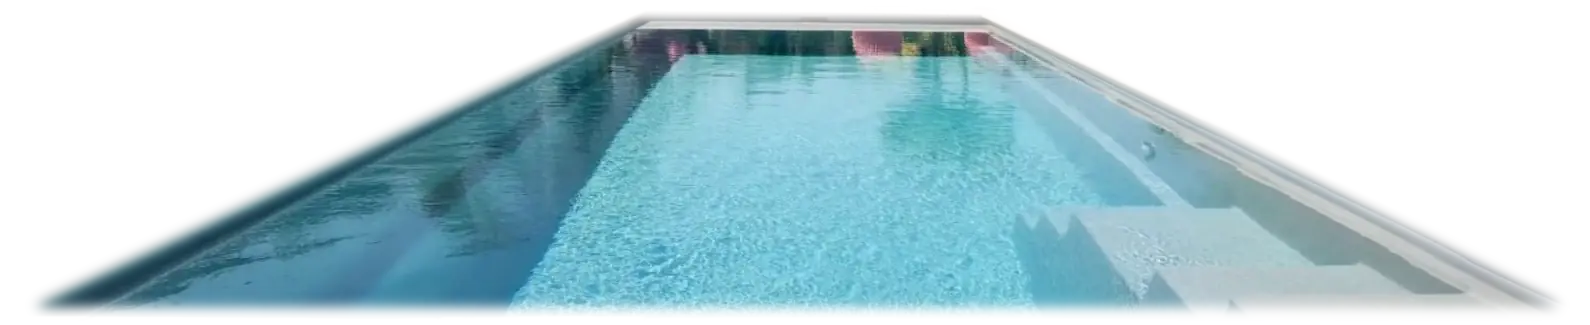
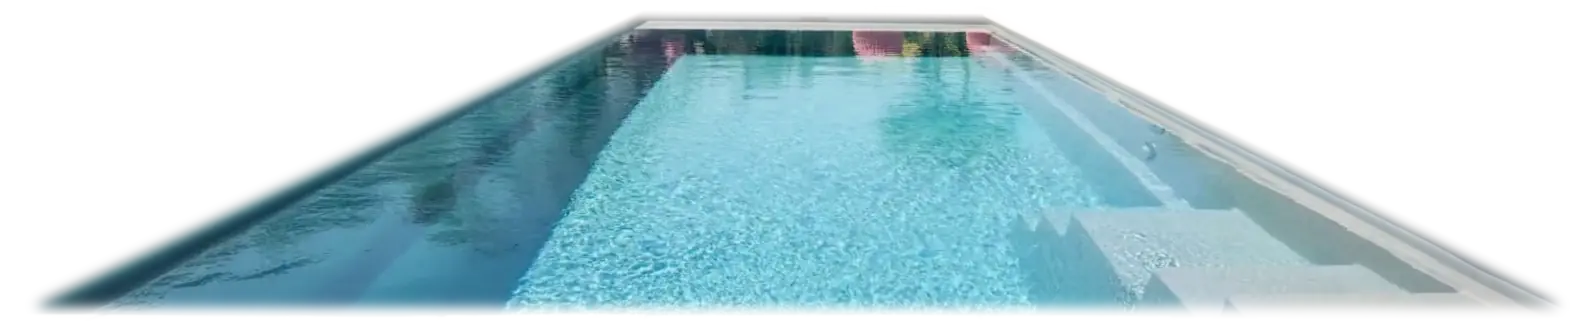
Hero: Wasser-Schleife auf die erste Hälfte gekürzt (ohne Drift nach rechts)
Claude-Session: https://claude.ai/code/session_019KKgNTWwGLvJJYy8rZqis2

diff --git a/HANDOVER.md b/HANDOVER.md
@@ -20,7 +20,7 @@ Kurzfassung für die nächste Sitzung. Arbeitsregeln und festgelegte Entscheidun
 
 1. **Header** (`components/Header.astro`) – 1:1 Space Kit (Glas-Leiste, Lade-Animation, Mobile-Menü gleitet 0,4 s von oben). Button „Beratung anfragen“ = runder Pill-Button dunkelblau.
 2. **Hero** (`components/Hero.astro`) – Space-Kit-Aufbau (Pill mit Preis „Komplettpaket ab 22.700 € zzgl. Erdarbeiten“, Headline „Ihr Traumpool. Fertig in 48 Stunden.“, Wellen-Kreis mit Umlauftext; Hotspots auf Wunsch entfernt).
-   - Hintergrund = **Köpfer-Video als Bildfolge**: 96 Einzelbilder in `website/public/koepfer/d/` (1920×1080) und `m/` (720×1280, Hochformat), per Canvas gezeichnet. Beim ersten Scrollen läuft es von selbst in 3,2 s bis unter Wasser durch (Seite steht so lange), Text/Buttons blenden aus; zurück ganz oben läuft es genauso rückwärts. Am Ende der Fahrt scrollt die Seite automatisch zu Sektion 2 (Lenis `scrollTo`, `window.lenis`). Im Ruhezustand oben bewegt sich nur das Wasser: 32 Pool-Ausschnitte mit weichem Rand in `website/public/koepfer/w/` (aus den ersten 2 s des Videos, auf Bild 0 stabilisiert, nahtlos überblendet, 16 Bilder/s, 0,8 MB), werden über Bild 0 gezeichnet.
+   - Hintergrund = **Köpfer-Video als Bildfolge**: 96 Einzelbilder in `website/public/koepfer/d/` (1920×1080) und `m/` (720×1280, Hochformat), per Canvas gezeichnet. Beim ersten Scrollen läuft es von selbst in 3,2 s bis unter Wasser durch (Seite steht so lange), Text/Buttons blenden aus; zurück ganz oben läuft es genauso rückwärts. Am Ende der Fahrt scrollt die Seite automatisch zu Sektion 2 (Lenis `scrollTo`, `window.lenis`). Im Ruhezustand oben bewegt sich nur das Wasser: 16 Pool-Ausschnitte mit weichem Rand in `website/public/koepfer/w/` (aus der ersten Sekunde des Videos – später driftet das Wasser nach rechts –, auf Bild 0 stabilisiert, nahtlos überblendet, 16 Bilder/s, 0,4 MB), werden über Bild 0 gezeichnet.
    - Drei runde Buttons (Dunkelblau/Türkis/Grau) in `components/ButtonGroup.astro`: Ruhezustand gestapelt, Hover fächert auf (21st.dev bundled/10); Handy: senkrecht gestapelt, Antippen fächert nach unten auf.
 3. **Sektion 2** (`components/BentoSection.astro`) – Space-Kit-Bento: Laufband, Überschrift, 2 Reihen (Text-Feld 35 % + Bild 65 %, Reihe 2 gespiegelt). Bild-Animation: Fläche wächst aus der Mitte, Ecken durchgehend 8 px, startet beim Hereinscrollen und läuft 1,4 s selbstständig; Text blendet gleichzeitig ein.
 4. Darunter Platzhalter „Weitere Sektionen folgen.“
